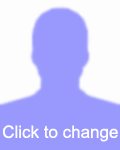
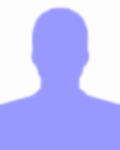
Style fixes and improvements

Changed region(s): [[0.525, 0.8267, 1.0, 0.96], [0.025, 0.8267, 0.325, 0.9333], [0.35, 0.8267, 0.5, 0.9333]]

diff --git a/modules/Base/ActionBar/theme/default.css b/modules/Base/ActionBar/theme/default.css
@@ -1,180 +1,76 @@
 #Base_ActionBar table.ActionBar {
-	font-size: 11px;
-    font-family: Tahoma, Verdana, Vera-Sans, DejaVu-Sans;
-}
-
-#Base_ActionBar table.ActionBar {
 	width: 100%;
-	height: auto;
-	padding: 10px;
-	border-collapse: collapse;
 }
 
-#Base_ActionBar table.ActionBar td {
-	/*padding: 3px;*/
-	text-align: left;
+#Base_ActionBar .panel_div_left.epesi_big_button {
+	margin-right: 5px;
+	float: left;
+}
+#Base_ActionBar .panel_div_right.epesi_big_button {
+	margin-left: 5px;
+	float: right;
+}
+.epesi_rtl #Base_ActionBar .panel_div_left.epesi_big_button {
+	margin-left: 5px;
+	float: right;
+}
+.epesi_rtl #Base_ActionBar .panel_div_right.epesi_big_button {
+	margin-right: 5px;
+	float: left;
 }
 
-#Base_ActionBar #panel {
-	text-align: center;
-	vertical-align: middle;
+#Base_ActionBar .epesi_big_button {
+	padding: 0px;
+	margin: 0px 0px 4px;
+	height: 74px;
+	width: auto;
+	width: 64px;
+}
+
+#launchpad_button_section #Base_ActionBar .panel_div_right.epesi_big_button {
+	margin-left: 0px;
+	margin-right: 0px;
+	width: 63px; 
+}
+
+#Base_ActionBar .epesi_big_button > span {
+	font-weight: normal;
+	padding: 0px 2px 0px;
+	width: 60px;
+	height: 34px;
 	line-height: 11px;
 }
 
-#Base_ActionBar #panel div.icon   {
-	overflow:hidden;
-	margin: 0px;
+#Base_ActionBar .epesi_big_button > img,
+#Base_ActionBar .epesi_big_button > .div_icon {
+	margin: 5px auto 1px;
 }
 
-#Base_ActionBar #panel div.icon a {
-	display: block; float: left;
-	height: 73px !important;
-	vertical-align: middle;
-	text-decoration : none;
-	padding: 0px 1px 0px 0px;
-}
+#Base_ActionBar .div_icon { display: block; width: 32px;height: 32px; background-image: url('Base/ActionBar/icons.png'); margin: auto;}
 
-#Base_ActionBar table.ActionBar #panel {
-	height: 81px;
-	overflow: hidden;
-}
-
-#Base_ActionBar table.ActionBar #panel div.icon a:link {
-	color: #336699;
-	/*Transition*/
-	-webkit-transition: all 0.4s ease-out;
-    -moz-transition: all 0.4s ease-out;
-    -o-transition: all 0.4s ease-out;	
-	/* end Transition*/
-}
-#Base_ActionBar table.ActionBar #panel div.icon a:hover {
-	color: #336699;
-	/* border radius css3 */
-	-webkit-border-radius: 6px;
-	-moz-border-radius: 6px;
-	border-radius: 6px;
-	/* end border radius css3 */
-
-}
-.panel_div {
-	margin: 3px 7px 0 0px;
-	background-color: white;
-	/* css3 shadow border*/
-	-webkit-box-shadow: 0px 0px 3px gray;
-	-moz-box-shadow: 0px 0px 3px gray;
-	box-shadow: 0px 0px 3px gray;
-	/* end css3 shadow border*/
-	/* border radius css3 */
-	-webkit-border-radius: 6px;
-	-moz-border-radius: 6px;
-	border-radius: 6px;
-	/* end border radius css3 */
-	
-	/*Transition*/
-	-webkit-transition: all 0.4s ease-out;
-    -moz-transition: all 0.4s ease-out;
-    -o-transition: all 0.4s ease-out;	
-	/* end Transition*/
-}
-
-.panel_div:hover {
-	/* css3 shadow border*/
-	-webkit-box-shadow: 0px 0px 10px #005100;
-	-moz-box-shadow: 0px 0px 10px #005100;
-	box-shadow: 0px 0px 10px #005100;
-	/* end css3 shadow border*/
-
-}
-
-.panel_div_left {
-	margin-left: 7px;
-	margin-right: 0px;
-	float: left;
-}
-
-.panel_div_right {
-	margin-left: 0px;
-	margin-right: 7px;
-	float: right;
-}
-
-.epesi_rtl .panel_div_left {
-	margin-left: 0px;
-	margin-right: 7px;
-	float: right;
-}
-
-.epesi_rtl .panel_div_right {
-	margin-left: 7px;
-	margin-right: 0px;
-	float: left;
-}
-
-#launchpad_button_section .panel_div {
-	margin-left: 2px;
-	margin-right: 2px;
-	width: 64px; 
-}
-
-#launchpad_button_section .panel_div .icon_td_text {
-	width: 57px !important;
-}
-	
-#Base_ActionBar table.ActionBar #panel div.icon a:hover {
-	color : #993333;
-}
-
-#Base_ActionBar table.ActionBar #panel div.icon a:hover span {
-	color : #993333;
-}
-
-#Base_ActionBar table.ActionBar #panel div.icon a:active span {
-	color : #339933;
-}
-
-#Base_ActionBar #panel div.icon img {
-	margin-top: 3px;
-}
-
-#Base_ActionBar #panel div.icon span {
-	display: block;
-	/* to powoduje blad rozciagania sie w IE */
-	/*padding-top: 3px;*/
-}
-#Base_ActionBar table.ActionBar .icon_td_text {
-	width: 50px;
-	height: 29px;
-	overflow: hidden;
-	text-align: center;
-    vertical-align: middle;}
-#launchpad_button_section #Base_ActionBar #panel div.icon {
-	margin: auto;}
-
-#Base_ActionBar #panel div.icon .div_icon { width: 32px;height: 32px; background-image: url('Base/ActionBar/icons.png'); margin: auto;}
-
-#Base_ActionBar #panel div.icon .icon_add       { background-position:   0px    0px; margin: auto;}
-#Base_ActionBar #panel div.icon .icon_all       { background-position: -32px    0px; margin: auto;}
-#Base_ActionBar #panel div.icon .icon_attach    { background-position: -64px    0px; margin: auto;}
-#Base_ActionBar #panel div.icon .icon_back      { background-position: -96px    0px; margin: auto;}
-#Base_ActionBar #panel div.icon .icon_calendar  { background-position:   0px  -32px; margin: auto;}
-#Base_ActionBar #panel div.icon .icon_clone     { background-position: -32px  -32px; margin: auto;}
-#Base_ActionBar #panel div.icon .icon_delete    { background-position: -64px  -32px; margin: auto;}
-#Base_ActionBar #panel div.icon .icon_edit      { background-position: -96px  -32px; margin: auto;}
-#Base_ActionBar #panel div.icon .icon_exit      { background-position:   0px  -64px; margin: auto;}
-#Base_ActionBar #panel div.icon .icon_favorites { background-position: -32px  -64px; margin: auto;}
-#Base_ActionBar #panel div.icon .icon_filter    { background-position: -64px  -64px; margin: auto;}
-#Base_ActionBar #panel div.icon .icon_folder    { background-position: -96px  -64px; margin: auto;}
-#Base_ActionBar #panel div.icon .icon_forward   { background-position:   0px  -96px; margin: auto;}
-#Base_ActionBar #panel div.icon .icon_history   { background-position: -32px  -96px; margin: auto;}
-#Base_ActionBar #panel div.icon .icon_home      { background-position: -64px  -96px; margin: auto;}
-#Base_ActionBar #panel div.icon .icon_new-mail  { background-position: -96px  -96px; margin: auto;}
-#Base_ActionBar #panel div.icon .icon_print     { background-position:   0px -128px; margin: auto;}
-#Base_ActionBar #panel div.icon .icon_reply     { background-position: -32px -128px; margin: auto;}
-#Base_ActionBar #panel div.icon .icon_report    { background-position: -64px -128px; margin: auto;}
-#Base_ActionBar #panel div.icon .icon_retry     { background-position: -32px -160px; margin: auto;} /* FIXME */
-#Base_ActionBar #panel div.icon .icon_save      { background-position: -96px -128px; margin: auto;}
-#Base_ActionBar #panel div.icon .icon_scan      { background-position:   0px -160px; margin: auto;}
-#Base_ActionBar #panel div.icon .icon_search    { background-position: -32px -160px; margin: auto;}
-#Base_ActionBar #panel div.icon .icon_send      { background-position: -64px -160px; margin: auto;}
-#Base_ActionBar #panel div.icon .icon_settings  { background-position: -96px -160px; margin: auto;}
-#Base_ActionBar #panel div.icon .icon_view      { background-position:   0px -192px; margin: auto;}
+#Base_ActionBar .icon_add       { background-position:   0px    0px; margin: auto;}
+#Base_ActionBar .icon_all       { background-position: -32px    0px; margin: auto;}
+#Base_ActionBar .icon_attach    { background-position: -64px    0px; margin: auto;}
+#Base_ActionBar .icon_back      { background-position: -96px    0px; margin: auto;}
+#Base_ActionBar .icon_calendar  { background-position:   0px  -32px; margin: auto;}
+#Base_ActionBar .icon_clone     { background-position: -32px  -32px; margin: auto;}
+#Base_ActionBar .icon_delete    { background-position: -64px  -32px; margin: auto;}
+#Base_ActionBar .icon_edit      { background-position: -96px  -32px; margin: auto;}
+#Base_ActionBar .icon_exit      { background-position:   0px  -64px; margin: auto;}
+#Base_ActionBar .icon_favorites { background-position: -32px  -64px; margin: auto;}
+#Base_ActionBar .icon_filter    { background-position: -64px  -64px; margin: auto;}
+#Base_ActionBar .icon_folder    { background-position: -96px  -64px; margin: auto;}
+#Base_ActionBar .icon_forward   { background-position:   0px  -96px; margin: auto;}
+#Base_ActionBar .icon_history   { background-position: -32px  -96px; margin: auto;}
+#Base_ActionBar .icon_home      { background-position: -64px  -96px; margin: auto;}
+#Base_ActionBar .icon_new-mail  { background-position: -96px  -96px; margin: auto;}
+#Base_ActionBar .icon_print     { background-position:   0px -128px; margin: auto;}
+#Base_ActionBar .icon_reply     { background-position: -32px -128px; margin: auto;}
+#Base_ActionBar .icon_report    { background-position: -64px -128px; margin: auto;}
+#Base_ActionBar .icon_retry     { background-position: -32px -160px; margin: auto;} /* FIXME */
+#Base_ActionBar .icon_save      { background-position: -96px -128px; margin: auto;}
+#Base_ActionBar .icon_scan      { background-position:   0px -160px; margin: auto;}
+#Base_ActionBar .icon_search    { background-position: -32px -160px; margin: auto;}
+#Base_ActionBar .icon_send      { background-position: -64px -160px; margin: auto;}
+#Base_ActionBar .icon_settings  { background-position: -96px -160px; margin: auto;}
+#Base_ActionBar .icon_view      { background-position:   0px -192px; margin: auto;}

diff --git a/modules/Base/Box/theme/default.css b/modules/Base/Box/theme/default.css
@@ -549,6 +549,7 @@ hr.line {
 	margin: 0px;
 	background-color: #fff;
 	padding: 0px;
+	overflow: hidden;
 	/* css3 shadow border*/
 	-webkit-box-shadow: 1px 1px 6px gray;
 	-moz-box-shadow: 1px 1px 6px gray;
@@ -899,11 +900,11 @@ hr.line {
 	background-image: linear-gradient(top,  rgba(241,242,255,0.95) 0%,rgba(255,255,255,0) 75%); /* W3C */
 	filter: progid:DXImageTransform.Microsoft.gradient( startColorstr='#f2f1f2ff', endColorstr='#00ffffff',GradientType=0 ); /* IE6-9 */
 
-	background-color: #ddd;
+	background-color: #DDD;
 }
 
 .epesi_big_button:hover {
-	background-color: #bbf;
+	background-color: #9E9;
 }
 
 .epesi_big_button > img {

diff --git a/modules/CRM/Contacts/Photo/theme/Contact.css b/modules/CRM/Contacts/Photo/theme/Contact.css
@@ -5,3 +5,17 @@
 	max-height:150px;
 	border: none;
 }
+
+.Utils_RecordBrowser__View_entry .photo {
+	display: block;
+	position: relative;
+}
+
+.Utils_RecordBrowser__View_entry .photo .photo_note {
+	position: absolute;
+	color: white;
+	font-size: 15px;
+	bottom: 20px;
+	width: 98%;
+	text-align: center;
+}

diff --git a/modules/Utils/RecordBrowser/theme/View_entry.css b/modules/Utils/RecordBrowser/theme/View_entry.css
@@ -234,6 +234,10 @@
 /* currency START */
 
 /* automulti START */
+
+.Utils_RecordBrowser__View_entry table.edit .automulti {
+	background-color: rgba(0, 0, 0, 0.15);
+}
 .Utils_RecordBrowser__View_entry table.edit .automulti select {
 	height: 80px;
 }

diff --git a/modules/Utils/Attachment/Attachment_0.php b/modules/Utils/Attachment/Attachment_0.php
@@ -240,20 +240,26 @@ class Utils_Attachment extends Module {
 
 
 			$inline_img = '';
+			$link_href = '';
+			$link_img = '';
 			if($row['original']!=='') {
 				$f_filename = DATA_DIR.'/Utils_Attachment/'.$row['local'].'/'.$row['id'].'_'.$row['file_revision'];
 				if(file_exists($f_filename)) {
 					$filetooltip = $this->t('Filename: %s<br>File size: %s',array($row['original'],filesize_hr($f_filename))).'<hr>'.$this->t('Last uploaded by %s<br>on %s<br>Number of uploads: %d<br>Number of downloads: %d',array(Base_UserCommon::get_user_label($row['upload_by']),Base_RegionalSettingsCommon::time2reg($row['upload_on']),$row['file_revision'],$row['downloads']));
 					$view_link = '';
-					$r->add_action($this->get_file($row,$view_link),'Attachment',$filetooltip,Base_ThemeCommon::get_template_file($this->get_type(),'z-attach.png'), 10);
+					$link_href = Utils_TooltipCommon::open_tag_attrs($filetooltip).' '.$this->get_file($row,$view_link);
+					$link_img = Base_ThemeCommon::get_template_file($this->get_type(),'z-attach.png');
 					if(Utils_AttachmentCommon::is_image($row) && $view_link)
 						$inline_img = '<hr><a href="'.$view_link.'" target="_blank"><img src="'.$view_link.'" style="max-width:700px" /></a><br>';
 				} else {
-					$r->add_action('','Attachment',$this->t('Missing file: %s',array($f_filename)),Base_ThemeCommon::get_template_file($this->get_type(),'z-attach.png'), 10);
+					$link_href = Utils_TooltipCommon::open_tag_attrs($this->t('Missing file: %s',array($f_filename)));
+					$link_img = Base_ThemeCommon::get_template_file($this->get_type(),'z-attach-off.png');
 				}
-			} else {
-				$r->add_action('','Attachment',$this->t('No attachment'),Base_ThemeCommon::get_template_file($this->get_type(),'z-attach-off.png'), 10);
 			}
+			if ($link_href)
+				$icon = '<a style="margin-right: 3px; float:left;" '.$link_href.'><img src="'.$link_img.'"></a>';
+			else
+				$icon = '';
 
 			static $def_permissions = array('Public','Protected','Private');
 			$perm = $this->t($def_permissions[$row['permission']]);
@@ -287,6 +293,7 @@ class Utils_Attachment extends Module {
 		    	$r->add_action($this->create_callback_href(array($this,'cut'),array($row['id'],$text)),'cut',null,Base_ThemeCommon::get_template_file($this->get_type(),'cut_small.png'), 4);
 		    }
 			
+			$text = $icon.$text;
 			if($row['sticky']) $text = '<img src="'.Base_ThemeCommon::get_template_file($this->get_type(),'sticky.png').'" hspace=3 align="left"> '.$text;
 
             $r->add_action('style="display:none;" href="javascript:void(0)" onClick="utils_attachment_expand('.$row['id'].')" id="utils_attachment_more_'.$row['id'].'"','Expand', null, Base_ThemeCommon::get_template_file('Utils/GenericBrowser', 'plus_gray.png'), 5);

diff --git a/modules/Utils/RecordBrowser/RecordBrowser_0.php b/modules/Utils/RecordBrowser/RecordBrowser_0.php
@@ -955,7 +955,7 @@ class Utils_RecordBrowser extends Module {
 //              $row_data[] = '&nbsp;';
 
             $gb_row = $gb->get_new_row();
-            $gb_row->add_action('',$data['submit_qanr']['html'],'', null, false, 4);
+            $gb_row->add_action('',$data['submit_qanr']['html'],'', null, 0, false, 7);
             $gb_row->set_attrs('id="add_in_table_row" style="display:'.($this->show_add_in_table?'':'none').';"');
             $gb_row->add_data_array($row_data);
         }
@@ -1604,7 +1604,7 @@ class Utils_RecordBrowser extends Module {
 												${'rp_'.$args['id']} = $this->init_module('Utils/RecordBrowser/RecordPicker',array());
 												$filters_defaults = isset($multi_adv_params['filters_defaults'])?$multi_adv_params['filters_defaults']:array();
 												$this->display_module(${'rp_'.$args['id']}, array($this->tab,$args['id'],$multi_adv_params['format_callback'],$crits,array(),array(),array(),$filters_defaults));
-												$el->set_search_button('<a '.${'rp_'.$args['id']}->create_open_href().' '.Utils_TooltipCommon::open_tag_attrs($this->t('Advanced Selection')).' href="javascript:void(0);"><img border="0" src="'.Base_ThemeCommon::get_template_file('Utils_RecordBrowser','icon_zoom.jpg').'"></a>');
+												$el->set_search_button('<a '.${'rp_'.$args['id']}->create_open_href().' '.Utils_TooltipCommon::open_tag_attrs($this->t('Advanced Selection')).' href="javascript:void(0);"><img border="0" src="'.Base_ThemeCommon::get_template_file('Utils_RecordBrowser','icon_zoom.png').'"></a>');
 												} else {
 													if (empty($f_callback)) $f_callback = array('Utils_RecordBrowserCommon', 'autoselect_label');
 													$form->addElement('autoselect', $args['id'], $label, $comp, array(array('Utils_RecordBrowserCommon','automulti_suggestbox'), array($this->tab, $crits, $f_callback, $args['param'])), $f_callback);

diff --git a/modules/CRM/Contacts/Photo/PhotoCommon_0.php b/modules/CRM/Contacts/Photo/PhotoCommon_0.php
@@ -22,6 +22,7 @@ class CRM_Contacts_PhotoCommon extends ModuleCommon {
         		$file = $in->get_data_dir() . $filename;
             } else {
 				$file = Base_ThemeCommon::get_template_file('CRM/Contacts/Photo','placeholder.png');
+				$ret['photo_note'] = Base_LangCommon::ts('CRM/Contacts/Photo','Click to change');
             }
 			$ret['photo_link'] = Module::create_href(array('upload_new_photo'=>$values['id'])).' '.Utils_TooltipCommon::open_tag_attrs(Base_LangCommon::ts('CRM/Contacts/Photo','Click to change the photo'), false);
 			$ret['photo_src'] = $file;

diff --git a/modules/CRM/Contacts/NotesAggregate/NotesAggregate_0.php b/modules/CRM/Contacts/NotesAggregate/NotesAggregate_0.php
@@ -37,7 +37,6 @@ class CRM_Contacts_NotesAggregate extends Module {
 		
 		if (Base_User_SettingsCommon::get('CRM/Contacts/NotesAggregate', 'show_all_notes'))
 			$attachment_groups[] = 'contact/'.$contact['id'];
-		print_r($attachment_groups);
 
 		$a = $this->init_module('Utils/Attachment',array($attachment_groups));
 		$this->display_module($a);
